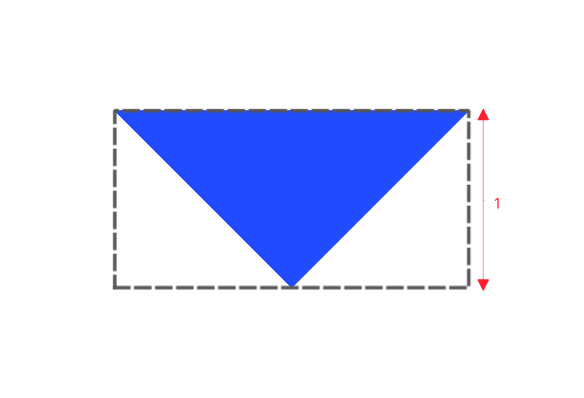
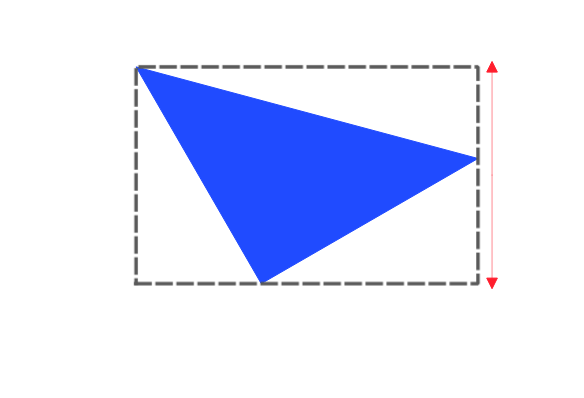
Update PR comments

Changed region(s): [[0.1849, 0.1508, 0.863, 0.7538], [0.5548, 0.603, 0.5856, 0.6332]]

diff --git a/docs/user_manual/expressions/expression_help/GeometryGroup.rst b/docs/user_manual/expressions/expression_help/GeometryGroup.rst
@@ -99,24 +99,6 @@ Applies a dash pattern to a geometry, returning a MultiLineString geometry which
 
 .. end_apply_dash_pattern_section
 
-.. _expression_function_GeometryGroup_$area:
-
-$area
-.....
-
-Returns the area of the current feature. The area calculated by this function respects both the current project's ellipsoid setting and area unit settings. For example, if an ellipsoid has been set for the project then the calculated area will be ellipsoidal, and if no ellipsoid is set then the calculated area will be planimetric.
-
-.. list-table::
-   :widths: 15 85
-
-   * - Syntax
-     - $area
-   * - Examples
-     - * ``$area`` → 42
-
-
-.. end_$area_section
-
 .. _expression_function_GeometryGroup_area:
 
 area
@@ -137,6 +119,24 @@ Returns the area of a geometry polygon object. Calculations are always planimetr
 
 
 .. end_area_section
+
+.. _expression_function_GeometryGroup_$area:
+
+$area
+.....
+
+Returns the area of the current feature. The area calculated by this function respects both the current project's ellipsoid setting and area unit settings. For example, if an ellipsoid has been set for the project then the calculated area will be ellipsoidal, and if no ellipsoid is set then the calculated area will be planimetric.
+
+.. list-table::
+   :widths: 15 85
+
+   * - Syntax
+     - $area
+   * - Examples
+     - * ``$area`` → 42
+
+
+.. end_$area_section
 
 .. _expression_function_GeometryGroup_azimuth:
 
@@ -261,7 +261,7 @@ Returns the height of the bounding box of a geometry. Calculations are in the Sp
 .. figure:: expression_help/img/bounds_height.*
    :align: center
 
-   The red vertical arrow shows the height of the gray dashed bounding box around the blue input geometry (1 map unit).
+   The red vertical arrow shows the height of the gray dashed bounding box around the blue input geometry.
 
 .. end_bounds_height_section
 
@@ -287,7 +287,7 @@ Returns the width of the bounding box of a geometry. Calculations are in the Spa
 .. figure:: expression_help/img/bounds_width.*
    :align: center
 
-   The red horizontal arrow shows the width of the gray dashed bounding box around the blue input geometry (2 map units).
+   The red horizontal arrow shows the width of the gray dashed bounding box around the blue input geometry.
 
 .. end_bounds_width_section
 
@@ -495,7 +495,7 @@ Returns the combination of two geometries.
 .. figure:: expression_help/img/combine.*
    :align: center
 
-   Two combinations of blue and orange LineStrings: a shared segment followed by a branch produces a red MultiLineString (top), while an overlap without branching produces a red LineString (bottom).
+   Three combinations of blue and orange LineStrings: a shared segment followed by a branch produces a red MultiLineString (top), an overlap without branching produces a red LineString (middle), and disjoint inputs produce a red MultiLineString with two separate parts (bottom).
 
 .. end_combine_section
 
@@ -1217,24 +1217,6 @@ Returns the Well-Known Text (WKT) representation of the geometry without SRID me
 
 .. end_geom_to_wkt_section
 
-.. _expression_function_GeometryGroup_$geometry:
-
-$geometry
-.........
-
-Returns the geometry of the current feature. Can be used for processing with other functions. **WARNING: This function is deprecated. It is recommended to use the replacement @geometry variable instead.**
-
-.. list-table::
-   :widths: 15 85
-
-   * - Syntax
-     - $geometry
-   * - Examples
-     - * ``geom_to_wkt( $geometry )`` → 'POINT(6 50)'
-
-
-.. end_$geometry_section
-
 .. _expression_function_GeometryGroup_geometry:
 
 geometry
@@ -1256,6 +1238,24 @@ Returns a feature's geometry.
 
 
 .. end_geometry_section
+
+.. _expression_function_GeometryGroup_$geometry:
+
+$geometry
+.........
+
+Returns the geometry of the current feature. Can be used for processing with other functions. **WARNING: This function is deprecated. It is recommended to use the replacement @geometry variable instead.**
+
+.. list-table::
+   :widths: 15 85
+
+   * - Syntax
+     - $geometry
+   * - Examples
+     - * ``geom_to_wkt( $geometry )`` → 'POINT(6 50)'
+
+
+.. end_$geometry_section
 
 .. _expression_function_GeometryGroup_geometry_n:
 
@@ -1562,24 +1562,6 @@ Returns TRUE if a geometry is valid; if it is well-formed in 2D according to the
 
 .. end_is_valid_section
 
-.. _expression_function_GeometryGroup_$length:
-
-$length
-.......
-
-Returns the length of a linestring. If you need the length of a border of a polygon, use $perimeter instead. The length calculated by this function respects both the current project's ellipsoid setting and distance unit settings. For example, if an ellipsoid has been set for the project then the calculated length will be ellipsoidal, and if no ellipsoid is set then the calculated length will be planimetric.
-
-.. list-table::
-   :widths: 15 85
-
-   * - Syntax
-     - $length
-   * - Examples
-     - * ``$length`` → 42.4711
-
-
-.. end_$length_section
-
 .. _expression_function_GeometryGroup_length:
 
 length
@@ -1619,6 +1601,24 @@ Calculate the length of a geometry line object. Calculations are always planimet
 
 
 .. end_length_section
+
+.. _expression_function_GeometryGroup_$length:
+
+$length
+.......
+
+Returns the length of a linestring. If you need the length of a border of a polygon, use $perimeter instead. The length calculated by this function respects both the current project's ellipsoid setting and distance unit settings. For example, if an ellipsoid has been set for the project then the calculated length will be ellipsoidal, and if no ellipsoid is set then the calculated length will be planimetric.
+
+.. list-table::
+   :widths: 15 85
+
+   * - Syntax
+     - $length
+   * - Examples
+     - * ``$length`` → 42.4711
+
+
+.. end_$length_section
 
 .. _expression_function_GeometryGroup_length3D:
 
@@ -2862,24 +2862,6 @@ Read more on the underlying GEOS "Within" predicate, as described in PostGIS `ST
 
 .. end_overlay_within_section
 
-.. _expression_function_GeometryGroup_$perimeter:
-
-$perimeter
-..........
-
-Returns the perimeter length of the current feature. The perimeter calculated by this function respects both the current project's ellipsoid setting and distance unit settings. For example, if an ellipsoid has been set for the project then the calculated perimeter will be ellipsoidal, and if no ellipsoid is set then the calculated perimeter will be planimetric.
-
-.. list-table::
-   :widths: 15 85
-
-   * - Syntax
-     - $perimeter
-   * - Examples
-     - * ``$perimeter`` → 42
-
-
-.. end_$perimeter_section
-
 .. _expression_function_GeometryGroup_perimeter:
 
 perimeter
@@ -2900,6 +2882,24 @@ Returns the perimeter of a geometry polygon object. Calculations are always plan
 
 
 .. end_perimeter_section
+
+.. _expression_function_GeometryGroup_$perimeter:
+
+$perimeter
+..........
+
+Returns the perimeter length of the current feature. The perimeter calculated by this function respects both the current project's ellipsoid setting and distance unit settings. For example, if an ellipsoid has been set for the project then the calculated perimeter will be ellipsoidal, and if no ellipsoid is set then the calculated perimeter will be planimetric.
+
+.. list-table::
+   :widths: 15 85
+
+   * - Syntax
+     - $perimeter
+   * - Examples
+     - * ``$perimeter`` → 42
+
+
+.. end_$perimeter_section
 
 .. _expression_function_GeometryGroup_point_n:
 
@@ -3785,24 +3785,6 @@ Tests whether a geometry is within another. Returns TRUE if the geometry1 is com
 
 .. end_within_section
 
-.. _expression_function_GeometryGroup_$x:
-
-$x
-..
-
-Returns the x coordinate of the current point feature. If the feature is a multipoint feature, then the x-coordinate of the first point will be returned. **WARNING: This function is deprecated. It is recommended to use the replacement x() function with @geometry variable instead.**
-
-.. list-table::
-   :widths: 15 85
-
-   * - Syntax
-     - $x
-   * - Examples
-     - * ``$x`` → 42
-
-
-.. end_$x_section
-
 .. _expression_function_GeometryGroup_x:
 
 x
@@ -3824,25 +3806,23 @@ Returns the x coordinate of a point geometry, or the x coordinate of the centroi
 
 .. end_x_section
 
-.. _expression_function_GeometryGroup_$x_at:
+.. _expression_function_GeometryGroup_$x:
 
-$x_at
-.....
+$x
+..
 
-Retrieves a x coordinate of the current feature's geometry. **WARNING: This function is deprecated. It is recommended to use the replacement x_at function with @geometry variable instead.**
+Returns the x coordinate of the current point feature. If the feature is a multipoint feature, then the x-coordinate of the first point will be returned. **WARNING: This function is deprecated. It is recommended to use the replacement x() function with @geometry variable instead.**
 
 .. list-table::
    :widths: 15 85
 
    * - Syntax
-     - $x_at(vertex)
-   * - Arguments
-     - * **vertex** - index of the vertex of the current geometry (indices start at 0; negative values apply from the last index, starting at -1)
+     - $x
    * - Examples
-     - * ``$x_at(1)`` → 5
+     - * ``$x`` → 42
 
 
-.. end_$x_at_section
+.. end_$x_section
 
 .. _expression_function_GeometryGroup_x_at:
 
@@ -3864,6 +3844,26 @@ Retrieves a x coordinate of the geometry.
 
 
 .. end_x_at_section
+
+.. _expression_function_GeometryGroup_$x_at:
+
+$x_at
+.....
+
+Retrieves a x coordinate of the current feature's geometry. **WARNING: This function is deprecated. It is recommended to use the replacement x_at function with @geometry variable instead.**
+
+.. list-table::
+   :widths: 15 85
+
+   * - Syntax
+     - $x_at(vertex)
+   * - Arguments
+     - * **vertex** - index of the vertex of the current geometry (indices start at 0; negative values apply from the last index, starting at -1)
+   * - Examples
+     - * ``$x_at(1)`` → 5
+
+
+.. end_$x_at_section
 
 .. _expression_function_GeometryGroup_x_max:
 
